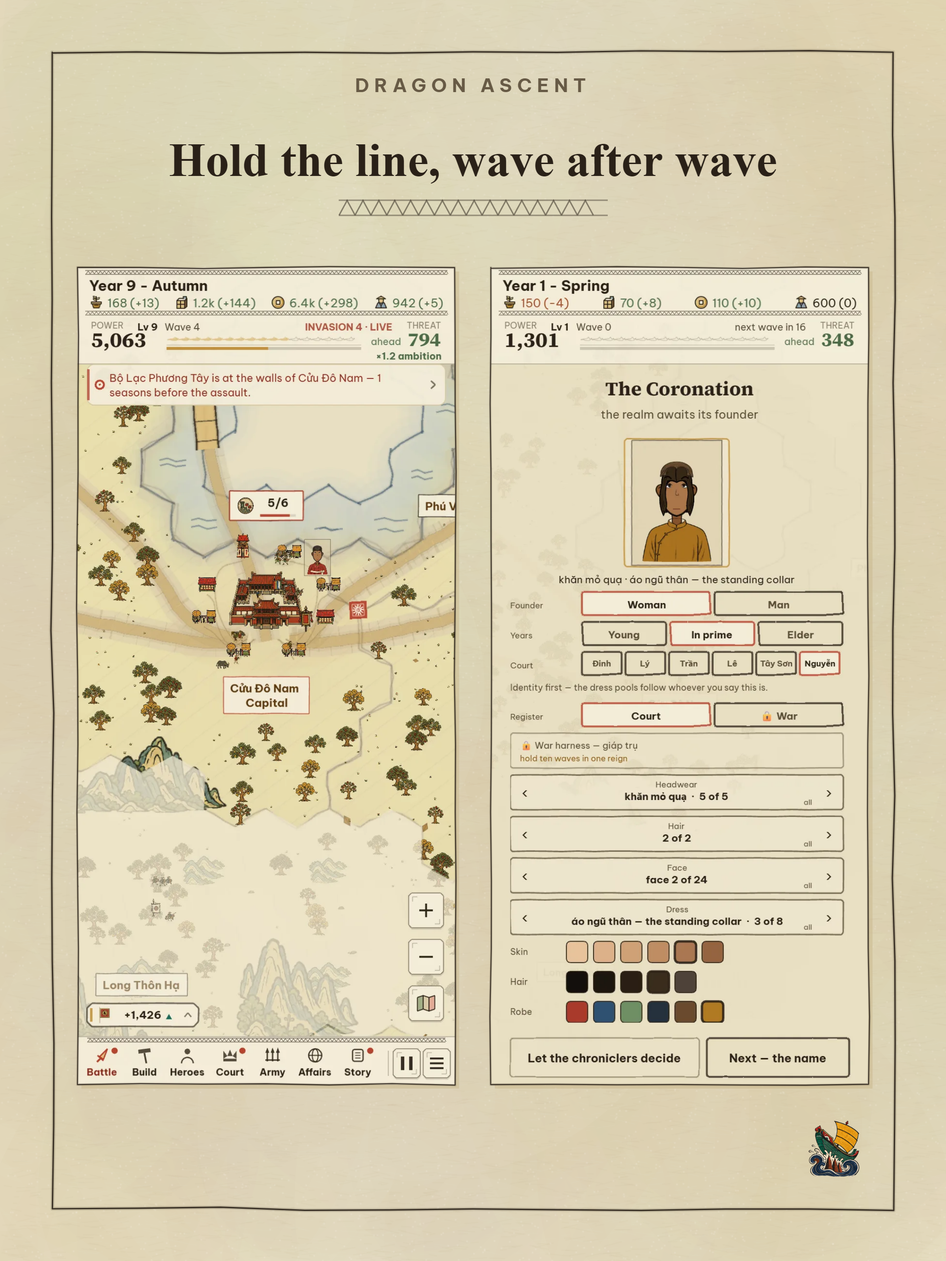
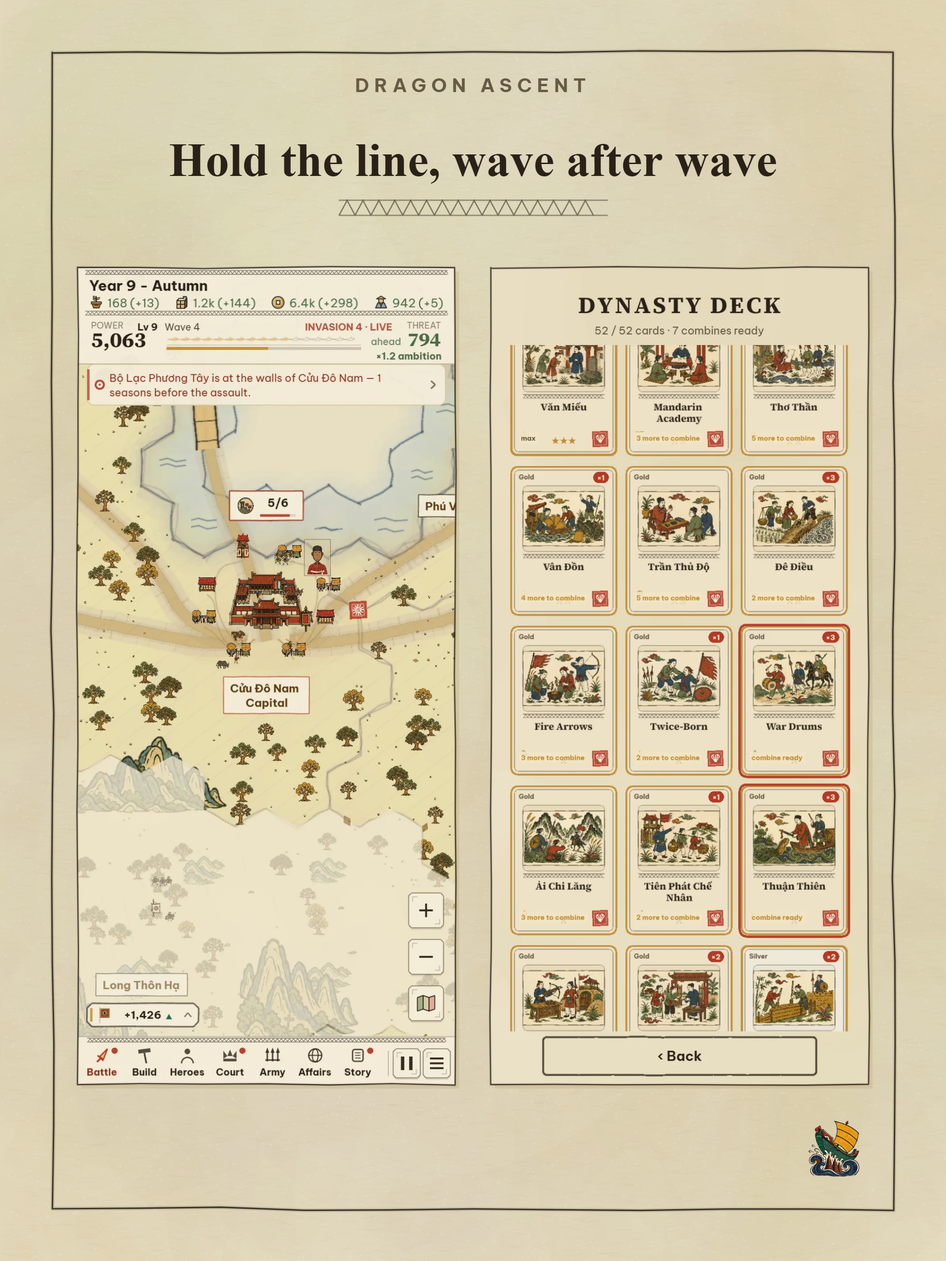
docs(readme,store): the card prints reach the README and the store listing
The game's one authored art seam - 65 Dong Ho prints under
public/art/story-prints/, one behind every power card, sixteen Chronicle
beats and every decision sheet - appeared in neither README nor the store
listing. Both showed only procedural ink.

A `prints` section in shot-readme.mjs now writes two pictures, both
byte-reproducible across runs:

  cabinet.webp      the Dynasty Deck binder, a wall of stamped card faces.
                    Seeded from POWER_CARDS into the cabinet store, so a card
                    added later turns up by itself.
  card-prints.webp  a 4x3 gallery composed off disk by a new mosaic() helper -
                    no game, and no screen shrinking each print to a thumbnail.

chronicle.webp is regenerated: it used to stop at whatever beat came first and
photographed a dyke as two grey lines. It now runs on to one of the sixteen
that carry a print. Two traps on the way there - a longer run leaves the
previous beat's outcome ledger standing in lastStoryOutcome and the shell
raises it over the pending prompt, and a GameState is not something to
deep-clone, so the candidate search runs the seeded loop twice instead.

Both READMEs get a `The cards` section. The graphic-perspective opening
claimed the game "ships almost no sprites", which stopped being true when the
325 conquest-dongho-v4 map and soldier plates landed; it now opens with a
plates-against-ink table.

cabinet.webp is the fourth store screenshot, and the long description gains a
[…]

Changed region(s): [[0.5271, 0.1875, 0.9302, 0.875]]

diff --git a/README.vi.md b/README.vi.md
@@ -49,6 +49,7 @@
 - [📜 Sử Ký — chuyện kể chính là cỗ máy](#-sử-ký--chuyện-kể-chính-là-cỗ-máy)
 - [🏮 Lịch sử thật, chạm một cái là tới](#-lịch-sử-thật-chạm-một-cái-là-tới)
 - [🖌 Chuyện vẽ vời](#-chuyện-vẽ-vời)
+  - [Những lá bài — năm mươi bức tranh, mỗi lá một bức](#những-lá-bài--năm-mươi-bức-tranh-mỗi-lá-một-bức)
   - [Danh tướng](#danh-tướng)
   - [Quân đội các vương quốc](#quân-đội-các-vương-quốc)
   - [Đông Hồ](#đông-hồ)
@@ -73,7 +74,7 @@ Bạn là một tiểu vương với vỏn vẹn một tòa kinh thành, giữa 
 
 - **Giặc đến theo đợt.** Chừng năm rưỡi một đợt, đợt sau đông hơn đợt trước; cứ đợt thứ tư là một trận trùm, báo trước hẳn một mùa. Không có màn "thắng" — chỉ có bạn trụ được tới đâu.
 - **Tham vọng có giá của nó.** Chiếm thêm trấn, rút thêm bài, mộ thêm quân — làm gì cũng khiến đợt giặc sau hung hơn. Muốn mở cõi thì phải chịu nóng.
-- **Lên cấp, chọn sức mạnh.** Bốn lá — đồng, bạc, vàng, ngọc — chọn một, cộng dồn vĩnh viễn. Hai lá đã nâng kịch trần còn *tiến hóa* được thành một lá mới toanh.
+- **Lên cấp, chọn sức mạnh.** Bốn lá — đồng, bạc, vàng, ngọc — chọn một, cộng dồn vĩnh viễn. Hai lá đã nâng kịch trần còn *tiến hóa* được thành một lá mới toanh. Cả thảy năm mươi hai lá, và [lá nào cũng mang một bức tranh khắc riêng](#những-lá-bài--năm-mươi-bức-tranh-mỗi-lá-một-bức).
 - **Định đường lối.** Mỗi thời đại một lần, bạn nói với quần thần: giang sơn này *Cố Thủ*, *Mở Mang*, *Làm Giàu* hay *Dựng Binh*. Nói xong, bộ máy cứ thế mà xây — tới khi bạn đổi ý.
 - **Thua cũng không về tay trắng.** Hết ván, mọi thứ quy ra **Di sản** — mua đặc quyền vĩnh viễn cho ván sau.
 
@@ -156,7 +157,7 @@ Chuyện trong game không phải cutscene. Có **bốn mươi chín khuôn chuy
 
 <table>
   <tr>
-    <td width="40%"><img src="docs/readme/chronicle.webp" alt="Một lá bài chuyện đang diễn: lời đề nghị của một lãnh chúa đối địch, ba cách đáp với cái giá thật, lời bàn của quân sư bên dưới" width="100%"></td>
+    <td width="40%"><img src="docs/readme/chronicle.webp" alt="Một lá bài chuyện đang diễn: Nỏ Thần, dưới bức tranh khắc của riêng nó — hai cách đáp, cách nào cũng có giá thật" width="100%"></td>
     <td valign="top">
 
 **Vài trang trong số đó**
@@ -173,7 +174,7 @@ Chuyện trong game không phải cutscene. Có **bốn mươi chín khuôn chuy
 - *Hồ Gươm*
 - *Yết Kiêu* · *Ải Chi Lăng* · *Thần Tốc* · *Văn Miếu* · *Thánh Gióng* · *Sơn Tinh Thủy Tinh* …
 
-**Và chuyện diễn bằng quân cờ thật.** Vai chính là vị tướng bạn triệu về thật, bối cảnh là trấn đất bạn đang giữ thật; chọn phương án nào cũng tốn vàng thật, người thật. Ngã ngũ rồi, lá bài kê khai rành mạch: *−400 tráng đinh, −60 vàng, câu chuyện ngả về một chức chỉ huy*. Có chuyện bắt bạn **thề** — giữ trấn này, giữ hòa khí kia — rồi nhớ rất dai xem bạn có giữ lời. Có chuyện để lại **dư âm** trong trình duyệt: viên tướng dứt áo bỏ đi ở ván này, ván sau vẫn có kẻ nhắc tên.
+**Và chuyện diễn bằng quân cờ thật.** Vai chính là vị tướng bạn triệu về thật, bối cảnh là trấn đất bạn đang giữ thật; chọn phương án nào cũng tốn vàng thật, người thật. Ngã ngũ rồi, lá bài kê khai rành mạch: *−400 tráng đinh, −60 vàng, câu chuyện ngả về một chức chỉ huy*. Có chuyện bắt bạn **thề** — giữ trấn này, giữ hòa khí kia — rồi nhớ rất dai xem bạn có giữ lời. Có chuyện để lại **dư âm** trong trình duyệt: viên tướng dứt áo bỏ đi ở ván này, ván sau vẫn có kẻ nhắc tên. Mười sáu đoạn trong số đó hiện lên kèm [một bức tranh khắc riêng](#những-lá-bài--năm-mươi-bức-tranh-mỗi-lá-một-bức) — đúng cái khoảnh khắc câu chuyện xoay quanh.
 
 Sao không làm cutscene cho khỏe? Vì chuyện mà bấm bỏ qua được thì chẳng đọng lại gì. Trói chuyện vào tướng, vào đất, vào quốc khố của chính bạn thì lịch sử mới thành thứ *xảy đến với mình*, chứ không phải thứ xem cho xong. Và lời kể nào cũng dán nhãn phân minh — *chính sử*: sử chép vậy; *dã sử*: dân gian kể vậy; *ngoại truyện*: game này bịa — tất cả gom vào một cuốn Sử Ký, hết ván mở ra đọc lại được.
 
@@ -198,7 +199,32 @@ Game cũng biết tự dạy: có trang **Cách chơi**, có tour dắt tay ở 
 
 ## 🖌 Chuyện vẽ vời
 
-Game gần như không mang theo sprite nào. Người, quân, sông núi — tất cả vẽ bằng code, theo lối **tranh khắc gỗ Đông Hồ**. Dưới đây là chính thứ mực ấy, soi thật gần.
+Tất cả những gì bạn thấy phía trên là một bức tranh do hai bàn tay cùng vẽ, cả hai đều theo lối **tranh khắc gỗ Đông Hồ**. **Bản in** được vẽ sẵn theo một tờ quy tắc: một nét viền đen ấm, mảng màu phẳng, không gian ước lệ nông, trên nền giấy điệp. **Mực** thì do code vẽ ngay lúc chạy, cũng theo đúng những quy tắc ấy — vì một giang sơn sinh mới mỗi ván thì không thể vẽ sẵn được. Chỗ hai bên gặp nhau, cố ý để không ai nhìn ra.
+
+| Vẽ sẵn, thành bản in | Code vẽ, ngay lúc chạy |
+|---|---|
+| **50** tranh bài — mỗi lá bài sức mạnh một bức, cộng 12 bối cảnh | chính **giang sơn**: ô lục giác, ruộng, sông, đường, sương mù — ván nào cũng bày lại từ đầu |
+| **325** bản in bản đồ — lính theo từng nước và từng cấp, mái nhà, cây, xe, trâu | **4 mùa** trên cùng nền đất ấy — lá đổi màu, ruộng ngập rồi gặt |
+| **277** mảnh chân dung — đầu, tóc, mũ, cổ áo, áo, phù hiệu | **5 thế** một đạo quân có thể đứng, vẽ đúng cái thế nó đang giữ |
+
+### Những lá bài — năm mươi bức tranh, mỗi lá một bức
+
+Một lá bài sức mạnh không phải là cái biểu tượng kèm con số. Năm mươi lá, mỗi lá mang một cảnh riêng, khắc theo cùng tờ quy tắc ấy — cọc đóng xuống lòng Bạch Đằng, Hai Bà và con voi, ải Chi Lăng, chiếc nỏ trên bàn thợ, những đứa trẻ được nhận vào Văn Miếu, đoàn thuyền lương Vân Đồn:
+
+<img src="docs/readme/card-prints.webp" alt="Mười hai trong năm mươi bức tranh bài: cọc Bạch Đằng, Hai Bà Trưng, ải Chi Lăng, nỏ thần, Văn Miếu, một buổi tấu trình, Bình Ngô đại cáo, chiếu dời đô, mùa gặt, buổi mộ binh làng, đắp đê, thuyền lương Vân Đồn" width="100%">
+
+<table>
+  <tr>
+    <td valign="top">
+
+Chúng không phải đồ trang trí trong menu. Bức nào cũng hiện lên đúng chỗ ý nghĩa của nó: trên lá bài bạn rút giữa ván, trên trang Sử Ký kể chính chuyện ấy, trong tờ trình quan lại dâng lên — và tất cả tụ lại ở **Tông Phả**, thứ duy nhất sống lâu hơn một ván chơi. Mỗi triều kết thúc, mỗi mười đợt giặc là một lượt rút; rút được lá nào thì lá ấy là của bạn mãi mãi. Ba bản giống nhau gộp thành một lá mạnh hơn, và tối đa ba lá theo bạn vào ván sau — đổi bằng tham vọng, nên giặc cũng đáp lại cái lợi thế ấy.
+
+**Vì sao làm vậy.** Bài sức mạnh trong roguelite thường là một bức tường biểu tượng, mà một bức tường biểu tượng thì chẳng có gì để nhớ. Ở đây mỗi lá là một bức tranh về đúng điều nó làm, lấy từ chính cái truyền thống game này nói tới — nên người chưa đọc được chữ *Nỏ Thần* vẫn biết lá nào là lá nỏ, và một trang sưu tập tự nó đã đáng mở ra xem.
+
+</td>
+    <td width="38%"><img src="docs/readme/cabinet.webp" alt="Tông Phả: từng hàng bài đã thu, mỗi lá một bức tranh khắc trong khung phẩm cấp, đếm số bản, hai lá đã đủ để gộp" width="100%"></td>
+  </tr>
+</table>
 
 ### Danh tướng
 

diff --git a/README.md b/README.md
@@ -49,6 +49,7 @@
 - [📜 The Chronicle — the stories are the engine](#-the-chronicle--the-stories-are-the-engine)
 - [🏮 The real history, one tap deep](#-the-real-history-one-tap-deep)
 - [🖌 A graphic perspective](#-a-graphic-perspective)
+  - [The cards — fifty prints, one behind every power](#the-cards--fifty-prints-one-behind-every-power)
   - [The heroes](#the-heroes)
   - [The armies of the kingdoms](#the-armies-of-the-kingdoms)
   - [Đông Hồ](#đông-hồ)
@@ -73,7 +74,7 @@ You are a small lord with one citadel on a map of forty-two provinces, generated
 
 - **Waves.** Every year and a half an invading host arrives, bigger than the last; every fourth is a boss, telegraphed a season ahead. Survive as many as you can — there is no win, only how far you got.
 - **Ambition is the dial.** Every province you take, every card you draft, every host you raise, raises the heat of what comes back at you. Expansion is never free.
-- **Power draft.** Level up and choose one of four cards — bronze, silver, gold, jade — that stack permanently. Two cards you have maxed can *evolve* into something neither was.
+- **Power draft.** Level up and choose one of four cards — bronze, silver, gold, jade — that stack permanently. Two cards you have maxed can *evolve* into something neither was. There are fifty-two, and [each carries its own woodblock print](#the-cards--fifty-prints-one-behind-every-power).
 - **Doctrine.** Once an era, tell your ministers what kind of realm this is — *Fortify, Expand, Enrich, Arm* — and the autopilot builds towards it until you say otherwise.
 - **The end of a run banks Legacy**, which buys permanent perks for the next.
 
@@ -156,7 +157,7 @@ The stories are not cutscenes. They are **forty-nine templates** that bind thems
 
 <table>
   <tr>
-    <td width="40%"><img src="docs/readme/chronicle.webp" alt="A story card in play: a beat from the Chronicle, each answer carrying a real cost" width="100%"></td>
+    <td width="40%"><img src="docs/readme/chronicle.webp" alt="A story card in play: Nỏ Thần, the divine crossbow, under its own woodblock print — two answers, each carrying a real cost" width="100%"></td>
     <td valign="top">
 
 **A few of the pages**
@@ -173,7 +174,7 @@ The stories are not cutscenes. They are **forty-nine templates** that bind thems
 - *Hồ Gươm* · The Lake of the Returned Sword
 - *Yết Kiêu* · The Diver · *Ải Chi Lăng* · *Thần Tốc* · *Văn Miếu* · *Thánh Gióng* · *Sơn Tinh Thủy Tinh* …
 
-**How they move the game.** A story is played with real pieces: it casts the general you actually summoned and the province you actually hold, its choices spend real gold and real men, and when it resolves, the card says exactly what it changed — *−400 able men, −60 gold, the story turns toward a command*. Some ask you to **swear a charge** — hold a province, keep the peace — and remember whether you kept it. Some leave **echoes** in the browser, so a hero who walked out on you in one run can be named in the next.
+**How they move the game.** A story is played with real pieces: it casts the general you actually summoned and the province you actually hold, its choices spend real gold and real men, and when it resolves, the card says exactly what it changed — *−400 able men, −60 gold, the story turns toward a command*. Some ask you to **swear a charge** — hold a province, keep the peace — and remember whether you kept it. Some leave **echoes** in the browser, so a hero who walked out on you in one run can be named in the next. Sixteen of the beats arrive under [a print of their own](#the-cards--fifty-prints-one-behind-every-power) — the moment the story turns on, cut as a woodblock.
 
 **Why it is built this way.** The stories are the point of the whole project — but a story you can skip is a cutscene, and a cutscene teaches nothing. Binding them to the run's own heroes, land and treasury makes the history something that *happens to you*. Every telling is tagged for what it is — *chính sử*, what the annals record; *dã sử*, what is told; *ngoại truyện*, what is only ours — and all of it lands in a Chronicle you can read back at the end.
 
@@ -198,7 +199,32 @@ The game also teaches itself: a **How to Play** page, guided tours of the first 
 
 ## 🖌 A graphic perspective
 
-The game ships almost no sprites. The people, the hosts and the country are procedural drawing in the manner of a **Đông Hồ folk woodblock print**, and this is the same ink seen close up.
+Everything above is one picture drawn by two hands, both working in the manner of a **Đông Hồ folk woodblock print**. **Plates** are drawn ahead of time to a written rule sheet — one warm-black contour, flat pigment blocks, shallow symbolic space, shell-coated paper. **Ink** is drawn by code at run time to the same rules, because a country generated fresh for every run cannot be painted in advance. The seam between them is meant to be invisible.
+
+| Drawn ahead, as plates | Drawn by code, at run time |
+|---|---|
+| **50** card prints — one behind every power card, plus 12 settings | the **country** itself: hexes, paddies, rivers, roads, fog, laid out fresh every run |
+| **325** map plates — soldiers by realm and rank, roofs, trees, carts, buffalo | **4 seasons** on that same ground — the leaves turn, the paddies flood and are cut |
+| **277** portrait parts — heads, hair, hats, collars, robes, rank marks | **5 shapes** a host can stand in, drawn as it is actually holding them |
+
+### The cards — fifty prints, one behind every power
+
+A power card is not an icon and a number. Each of the fifty carries its own scene, cut to the same rule sheet — the stakes going into the Bạch Đằng, the Trưng sisters and their elephant, the pass at Chi Lăng, the armourer's crossbow, the boys admitted at the Temple of Literature, the grain fleet at Vân Đồn:
+
+<img src="docs/readme/card-prints.webp" alt="Twelve of the fifty card prints: the Bạch Đằng stakes, the Trưng sisters, the pass at Chi Lăng, the divine crossbow, the Temple of Literature, a court petition, the great proclamation, the move to Thăng Long, the harvest, a village muster, the dykes, the grain fleet" width="100%">
+
+<table>
+  <tr>
+    <td valign="top">
+
+They are not decoration on a menu. The same print turns up wherever that idea does: on the card you draft mid-run, on the Chronicle beat that tells its story, in the sheet a minister hands you — and all of them together in the **Dynasty Deck**, the one collection that outlives a run. Every reign ending and every tenth wave pays a draw; a draw is a card kept for good. Three copies fold into a stronger one, and up to three ride into the next reign's opening hand — bought with ambition, so the enemy answers your head start.
+
+**Why it is built this way.** A roguelite's power cards are usually a wall of icons, and a wall of icons is a wall of nothing to remember. Here every card is a picture of the thing it does, from a tradition the game is about — so a player who cannot yet read *Nỏ Thần* still knows which card is the crossbow, and a collection screen is worth opening for its own sake.
+
+</td>
+    <td width="38%"><img src="docs/readme/cabinet.webp" alt="The Dynasty Deck: rows of collected cards, each a woodblock print under its rarity border, with copies counted and two marked combine ready" width="100%"></td>
+  </tr>
+</table>
 
 ### The heroes
 

diff --git a/apps/mobile/store/ios/metadata.md b/apps/mobile/store/ios/metadata.md
@@ -1,4 +1,4 @@
-# App Store Connect — 1.1.0 (568)
+# App Store Connect — 1.1.1 (568)
 
 Generated by `yarn store:kit` from `apps/mobile/store.metadata.json`.
 **Edit that file, not this one** — this document is overwritten on every run.
@@ -22,7 +22,7 @@ Historical strategy in ink
 Grand strategy of Vietnam. Play the history, meet the heroes, hold the land — and every province you take makes the next invasion worse.
 ```
 
-### Description  _(2992/4000)_
+### Description  _(3265/4000)_
 
 ```
 THE DRUM IS ALREADY FALLING. THEY ARE ALREADY COMING.
@@ -61,9 +61,11 @@ The reed banners. The divine crossbow and the goose feathers. The stakes hidden 
 
 These are not cutscenes you skip. A story arrives holding the general you actually summoned, and it spends your actual gold and your actual men. Some ask you to swear something — and remember, later, whether you kept it.
 
-NOTHING HERE IS A SPRITE
+DRAWN LIKE A WOODBLOCK PRINT
 
-Every hex, every face, every banner is drawn in the manner of a Đông Hồ woodblock print — the folk art of northern Vietnam, cut by hand onto shell-coated paper.
+Every hex, every face, every banner is drawn in the manner of a Đông Hồ print — the folk art of northern Vietnam, cut by hand onto shell-coated paper.
+
+Fifty power cards, each carrying a print of its own: the stakes going into the Bạch Đằng, the Trưng sisters and their elephant, the crossbow on the armourer's bench, the grain fleet at Vân Đồn. Draft them in a run, keep them for good, fold three copies into something stronger.
 
 The paddies flood, ripen and are cut. Winter strips the trees. Your armies stand in the shape they are actually holding, under their own colours, with their camps behind them.
 
@@ -175,7 +177,7 @@ None. Features and content are identical in every region. The app ships in Engli
 7. REGULATED INDUSTRY AND THIRD-PARTY MATERIAL
 Neither applies.
 - Historical figures and events come from the public historical record of Vietnam and from folk legend, and are in the public domain.
-- All artwork is generated procedurally by the app's own code, in the manner of Dong Ho folk woodblock printing, a traditional Vietnamese art form. No existing print is reproduced and no third-party artwork is used.
+- Artwork is of two kinds, both original to this project and both in the manner of Dong Ho folk woodblock printing, a traditional Vietnamese art form. Most of what is on screen - the map, the terrain, the character portraits, the armies in the field - is drawn procedurally by the app's own code at run time. The rest is a library of still illustrations commissioned for this app, produced with an AI image generation tool and reviewed by the developer, used on the power cards and the story screens. No existing woodblock print is reproduced, and no third-party, stock or licensed artwork is used.
 - Fonts are Be Vietnam Pro and Source Serif 4, both under the SIL Open Font License.
 - No trademarks or licensed properties appear in the app.
 

diff --git a/apps/mobile/store/android/metadata.md b/apps/mobile/store/android/metadata.md
@@ -1,4 +1,4 @@
-# Play Console — 1.1.0 (568)
+# Play Console — 1.1.1 (568)
 
 Generated by `yarn store:kit` from `apps/mobile/store.metadata.json`.
 **Edit that file, not this one** — this document is overwritten on every run.
@@ -16,7 +16,7 @@ Ten Thousand Victories
 Grand strategy of Vietnam. Play the history, meet the heroes, hold the land.
 ```
 
-### Full description  _(2992/4000)_
+### Full description  _(3265/4000)_
 
 ```
 THE DRUM IS ALREADY FALLING. THEY ARE ALREADY COMING.
@@ -55,9 +55,11 @@ The reed banners. The divine crossbow and the goose feathers. The stakes hidden 
 
 These are not cutscenes you skip. A story arrives holding the general you actually summoned, and it spends your actual gold and your actual men. Some ask you to swear something — and remember, later, whether you kept it.
 
-NOTHING HERE IS A SPRITE
+DRAWN LIKE A WOODBLOCK PRINT
 
-Every hex, every face, every banner is drawn in the manner of a Đông Hồ woodblock print — the folk art of northern Vietnam, cut by hand onto shell-coated paper.
+Every hex, every face, every banner is drawn in the manner of a Đông Hồ print — the folk art of northern Vietnam, cut by hand onto shell-coated paper.
+
+Fifty power cards, each carrying a print of its own: the stakes going into the Bạch Đằng, the Trưng sisters and their elephant, the crossbow on the armourer's bench, the grain fleet at Vân Đồn. Draft them in a run, keep them for good, fold three copies into something stronger.
 
 The paddies flood, ripen and are cut. Winter strips the trees. Your armies stand in the shape they are actually holding, under their own colours, with their camps behind them.
 

diff --git a/apps/mobile/store/README.md b/apps/mobile/store/README.md
@@ -1,4 +1,4 @@
-# Store submission kit — 1.1.0 (568)
+# Store submission kit — 1.1.1 (568)
 
 Everything here is generated by `yarn store:kit` from **`apps/mobile/store.metadata.json`**.
 Edit that one file; both stores follow.
@@ -26,7 +26,7 @@ yarn mobile:eas:release:ios        # iOS also submits to App Store Connect
 ```
 
 Sync the game, regenerate this kit, build **both** platforms on EAS, wait, then download each
-artefact into the matching `builds/` folder as `van-thang-1.1.0-568.ipa` / `.aab`. What is left
+artefact into the matching `builds/` folder as `van-thang-1.1.1-568.ipa` / `.aab`. What is left
 is the uploading, which neither console fully automates.
 
 Step by step instead:

diff --git a/apps/mobile/store/android/builds/README.md b/apps/mobile/store/android/builds/README.md
@@ -3,5 +3,5 @@
 Downloaded by `yarn store:builds`, named by version and build.
 Gitignored — they are tens of megabytes and reproducible from a commit.
 
-- `van-thang-1.1.0-568.aab` — Play Console → Production → Create release
-- `van-thang-1.1.0-568.apk` — sideload for testing; never upload an APK to Play
+- `van-thang-1.1.1-568.aab` — Play Console → Production → Create release
+- `van-thang-1.1.1-568.apk` — sideload for testing; never upload an APK to Play

diff --git a/apps/mobile/store/ios/screenshots/ipad-13/README.md b/apps/mobile/store/ios/screenshots/ipad-13/README.md
@@ -2,7 +2,7 @@
 
 Required, because app.json sets supportsTablet: true.
 
-3 generated by `yarn store:kit` from `docs/readme/`, in the order set by
+4 generated by `yarn store:kit` from `docs/readme/`, in the order set by
 `screenshots` in `apps/mobile/store.metadata.json`. Both consoles order by upload rather
 than by filename, so upload them in the sorted order shown here.
 

diff --git a/apps/mobile/store/android/screenshots/tablet-10/README.md b/apps/mobile/store/android/screenshots/tablet-10/README.md
@@ -2,7 +2,7 @@
 
 Required. 16:9, each side 1080-7680 px.
 
-2 generated by `yarn store:kit` from `docs/readme/`, in the order set by
+3 generated by `yarn store:kit` from `docs/readme/`, in the order set by
 `screenshots` in `apps/mobile/store.metadata.json`. Both consoles order by upload rather
 than by filename, so upload them in the sorted order shown here.
 

diff --git a/apps/mobile/store/android/screenshots/tablet-7/README.md b/apps/mobile/store/android/screenshots/tablet-7/README.md
@@ -2,7 +2,7 @@
 
 Required. 16:9, each side 320-3840 px.
 
-2 generated by `yarn store:kit` from `docs/readme/`, in the order set by
+3 generated by `yarn store:kit` from `docs/readme/`, in the order set by
 `screenshots` in `apps/mobile/store.metadata.json`. Both consoles order by upload rather
 than by filename, so upload them in the sorted order shown here.
 

diff --git a/apps/mobile/store/android/screenshots/phone/README.md b/apps/mobile/store/android/screenshots/phone/README.md
@@ -2,7 +2,7 @@
 
 Required. At least 2, up to 8.
 
-6 generated by `yarn store:kit` from `docs/readme/`, in the order set by
+7 generated by `yarn store:kit` from `docs/readme/`, in the order set by
 `screenshots` in `apps/mobile/store.metadata.json`. Both consoles order by upload rather
 than by filename, so upload them in the sorted order shown here.
 

diff --git a/apps/mobile/store/ios/builds/README.md b/apps/mobile/store/ios/builds/README.md
@@ -3,4 +3,4 @@
 Downloaded by `yarn store:builds`, named by version and build.
 Gitignored — they are tens of megabytes and reproducible from a commit.
 
-- `van-thang-1.1.0-568.ipa` — App Store Connect, via `yarn mobile:eas:ios:submit` or Transporter
+- `van-thang-1.1.1-568.ipa` — App Store Connect, via `yarn mobile:eas:ios:submit` or Transporter

diff --git a/apps/mobile/store/ios/screenshots/iphone-6.9/README.md b/apps/mobile/store/ios/screenshots/iphone-6.9/README.md
@@ -2,7 +2,7 @@
 
 Required. 3-10 images.
 
-6 generated by `yarn store:kit` from `docs/readme/`, in the order set by
+7 generated by `yarn store:kit` from `docs/readme/`, in the order set by
 `screenshots` in `apps/mobile/store.metadata.json`. Both consoles order by upload rather
 than by filename, so upload them in the sorted order shown here.
 
